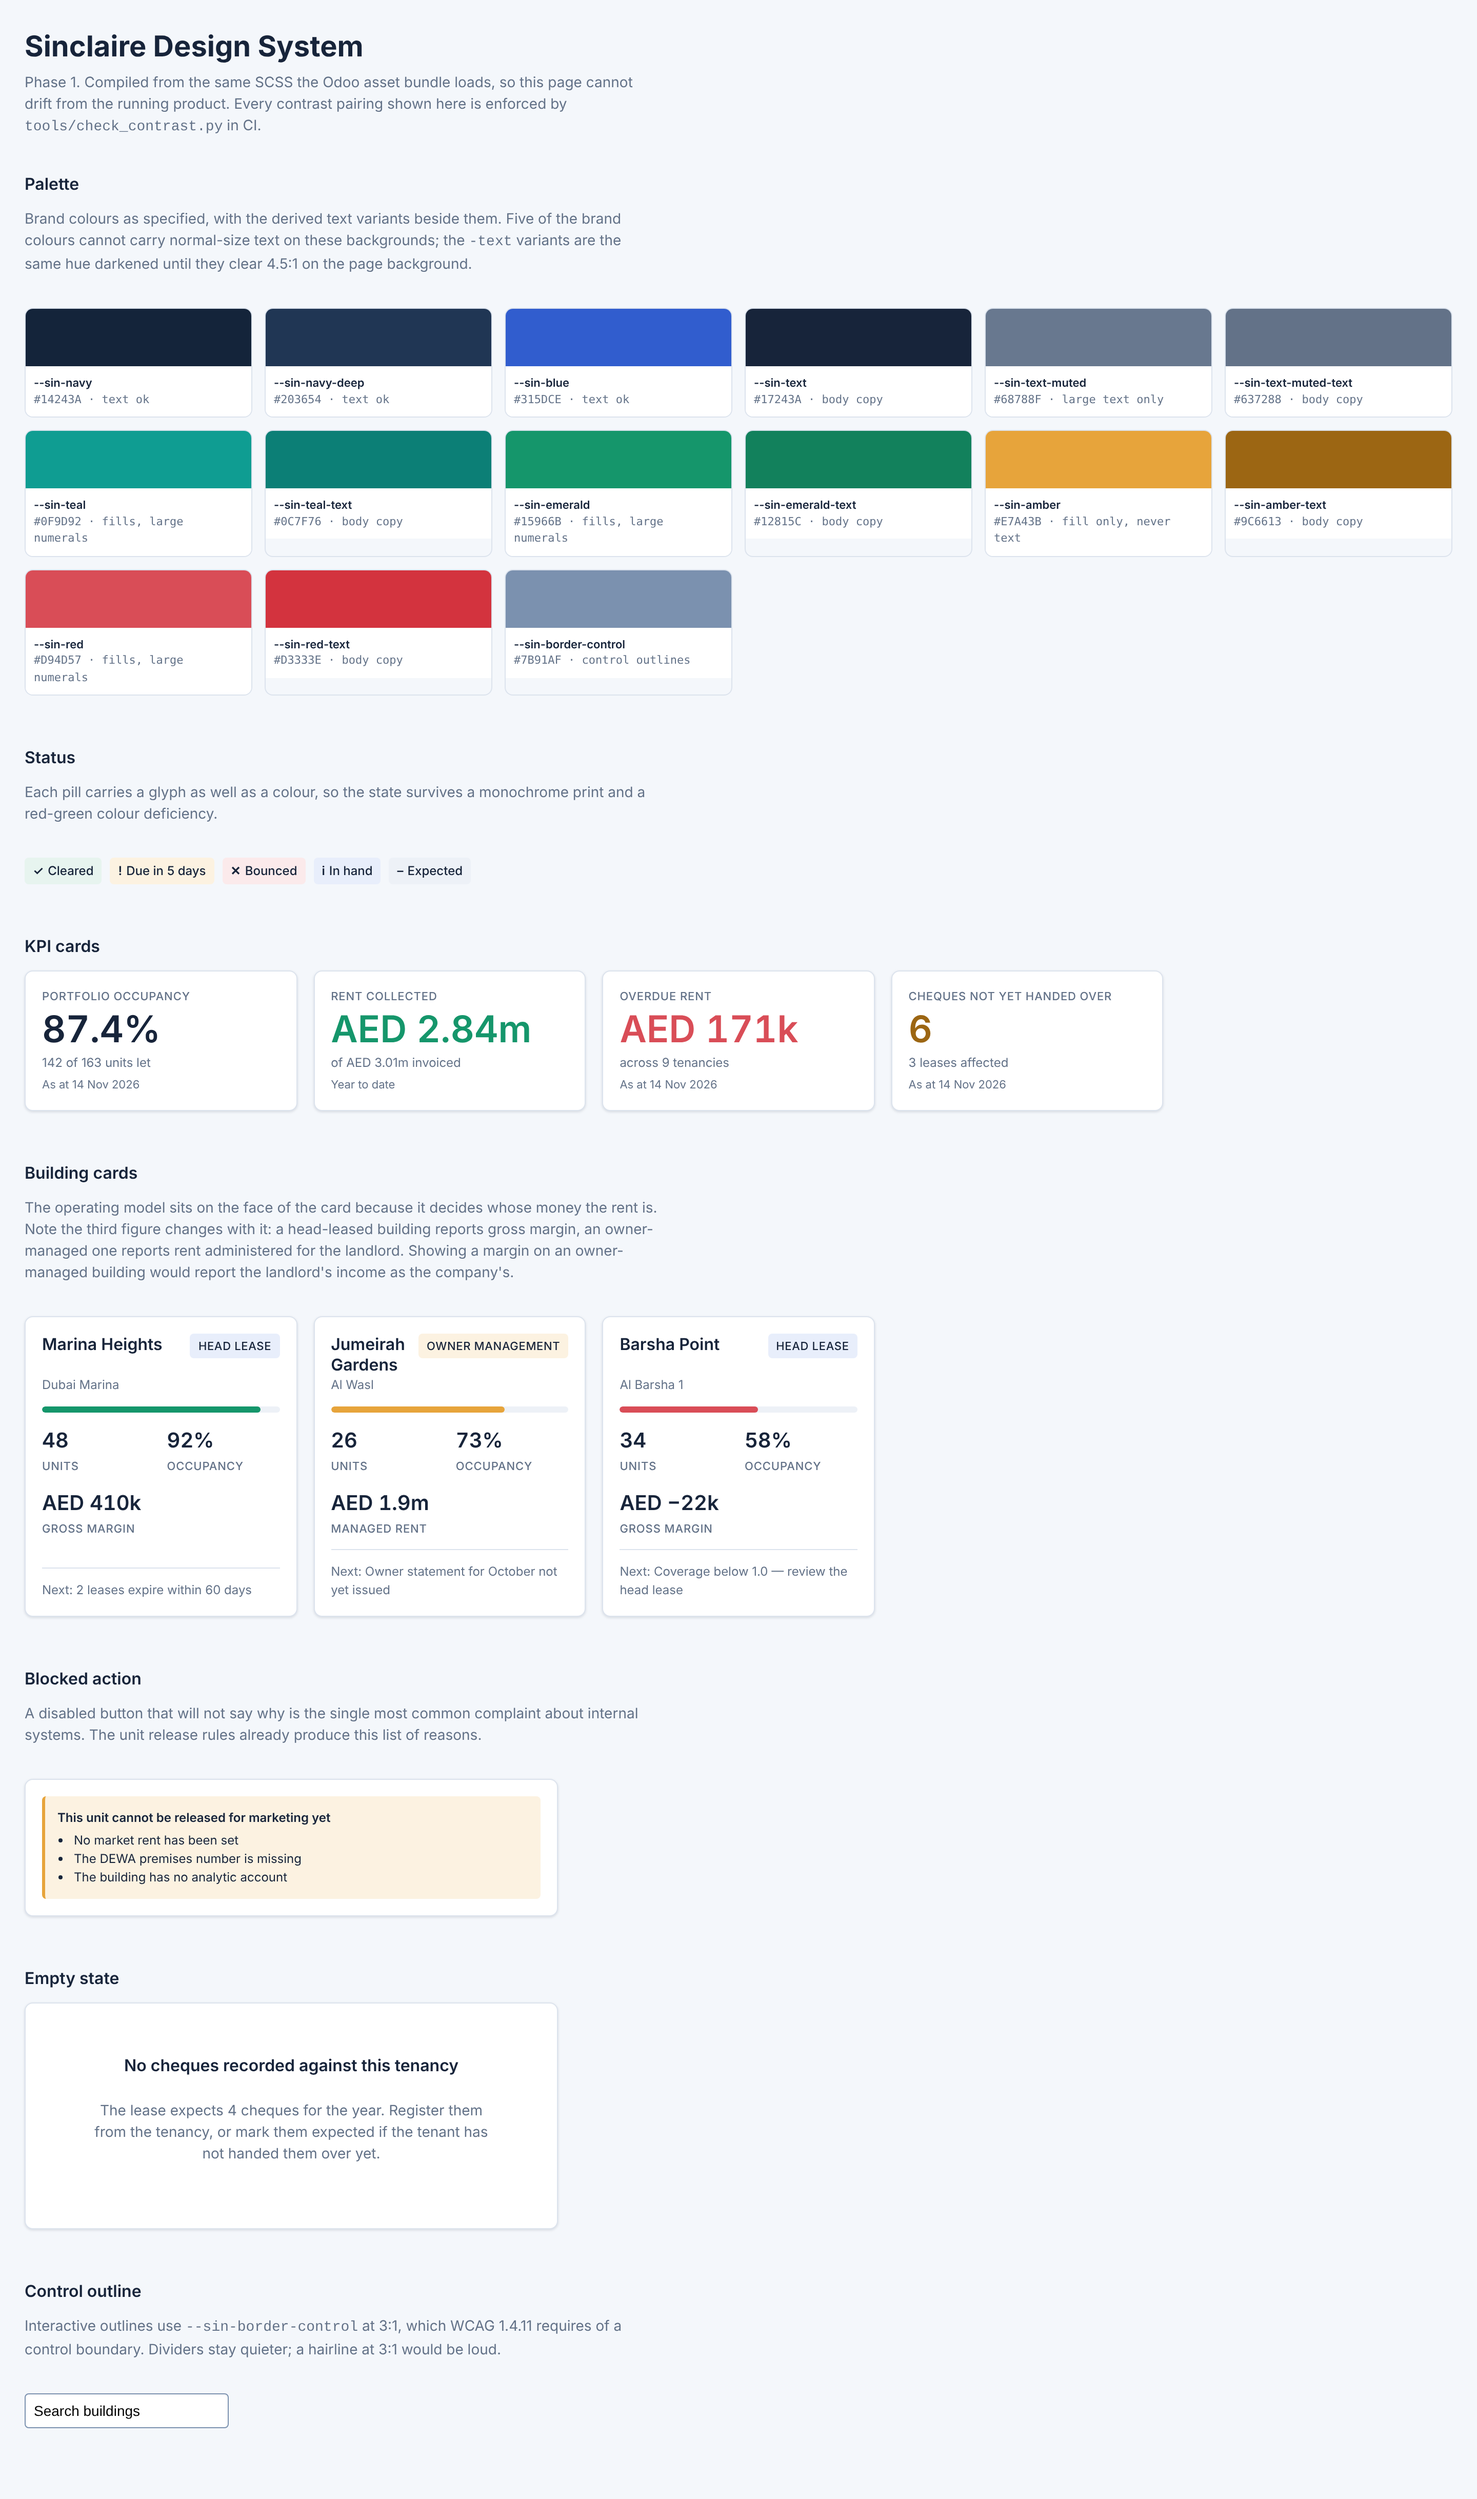
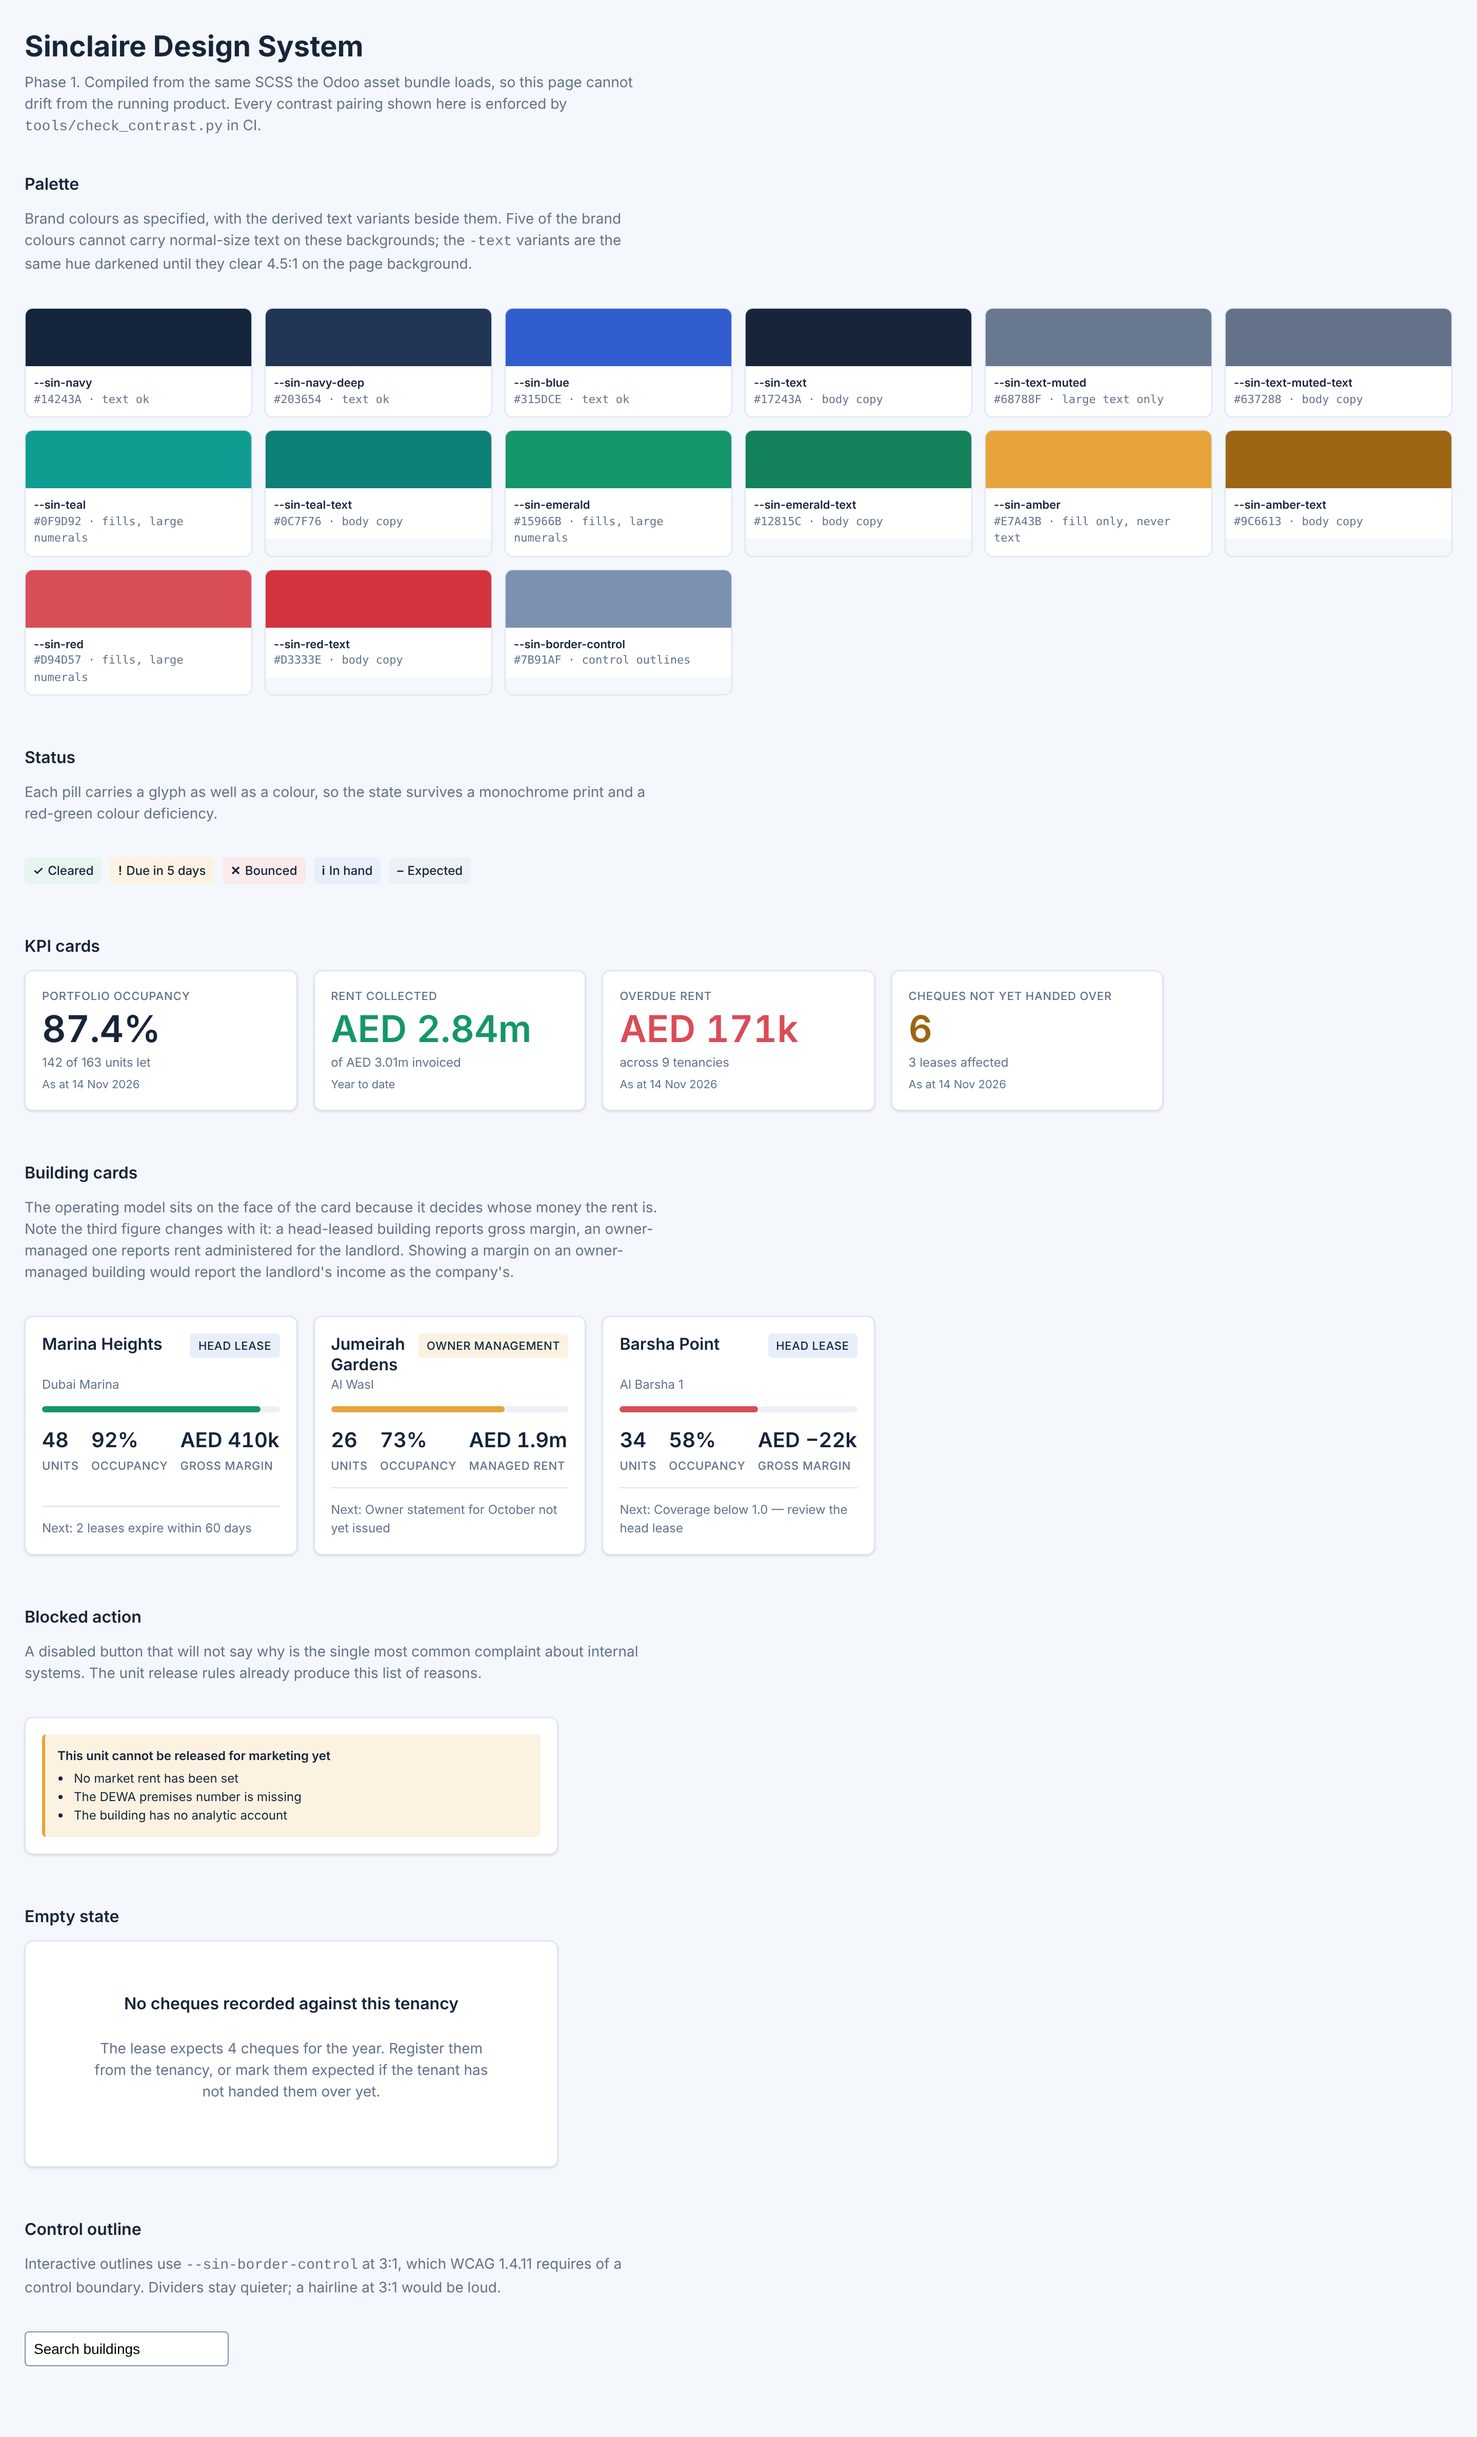
Stop the building card's money figure wrapping
Putting the portfolio card in front of real Odoo records showed two
things the standalone showcase could not.

The stat row was three equal columns. A unit count is two characters
and a money figure is "AED −144k", so the even split left the short
ones roomy and wrapped the long one onto a second line - which pushed
that card's labels a line below its neighbours' and made a row of cards
read as misaligned. The counts now size to their content and the money
figure takes the remainder, and the value will not wrap at all: a
figure broken mid-amount is unreadable, and it moves everything under
it.

At phone width the three figures were being squeezed into 358px, so
they go two-up there instead.

Verified in a running Odoo rather than by eye: no stat value clips at
either width, no horizontal page overflow, and every card's three
labels sit on a single baseline at 1440 and on two deliberate rows at
390.

Claude-Session: https://claude.ai/code/session_01WyhLvFds9MMr2Gb38SLz2h

diff --git a/sinclaire_base/static/src/scss/_components.scss b/sinclaire_base/static/src/scss/_components.scss
@@ -233,10 +233,15 @@
     color: var(--sin-text);
 }
 
+// Not three equal columns. A unit count is two characters and a money figure
+// is "AED −144k"; splitting the width evenly makes the short ones roomy and
+// wraps the long one onto a second line, which drops that card's labels out
+// of line with its neighbours'. So the counts size to their content and the
+// money figure takes what is left.
 .sin-building__stats {
     display: grid;
     gap: var(--sin-space-3);
-    grid-template-columns: repeat(auto-fit, minmax(90px, 1fr));
+    grid-template-columns: auto auto 1fr;
 }
 
 .sin-building__stat {
@@ -250,6 +255,10 @@
     font-size: var(--sin-text-xl);
     font-weight: var(--sin-weight-semibold);
     font-variant-numeric: tabular-nums;
+    // A figure that wraps mid-amount is unreadable, and it shifts every label
+    // beneath it. The card figure is abbreviated precisely so it fits on one
+    // line; this makes that a guarantee rather than a hope.
+    white-space: nowrap;
 }
 
 .sin-building__stat-label {
@@ -373,6 +382,13 @@
 
     .sin-building__head {
         flex-direction: column;
+    }
+
+    // One column per stat at phone width: three abbreviated figures side by
+    // side in 358px is how a card starts eliding its own numbers.
+    .sin-building__stats {
+        gap: var(--sin-space-2);
+        grid-template-columns: 1fr 1fr;
     }
 
     .sin-grid {

diff --git a/docs/design-system/index.html b/docs/design-system/index.html
@@ -268,7 +268,7 @@
 .sin-building__stats {
   display: grid;
   gap: var(--sin-space-3);
-  grid-template-columns: repeat(auto-fit, minmax(90px, 1fr));
+  grid-template-columns: auto auto 1fr;
 }
 
 .sin-building__stat {
@@ -282,6 +282,7 @@
   font-size: var(--sin-text-xl);
   font-weight: var(--sin-weight-semibold);
   font-variant-numeric: tabular-nums;
+  white-space: nowrap;
 }
 
 .sin-building__next {
@@ -385,6 +386,10 @@
   }
   .sin-building__head {
     flex-direction: column;
+  }
+  .sin-building__stats {
+    gap: var(--sin-space-2);
+    grid-template-columns: 1fr 1fr;
   }
   .sin-grid {
     grid-template-columns: 1fr;

diff --git a/sinclaire_base/__manifest__.py b/sinclaire_base/__manifest__.py
@@ -10,7 +10,7 @@ suite. Every other ``sinclaire_*`` module depends on this one so that common
 data, security groups and assets are loaded exactly once and in a predictable
 order.
 """,
-    "version": "19.0.1.1.0",
+    "version": "19.0.1.1.1",
     "category": "Technical",
     "author": "C2P Consultants",
     "website": "https://github.com/core2plus-odoo/sinclaire",
